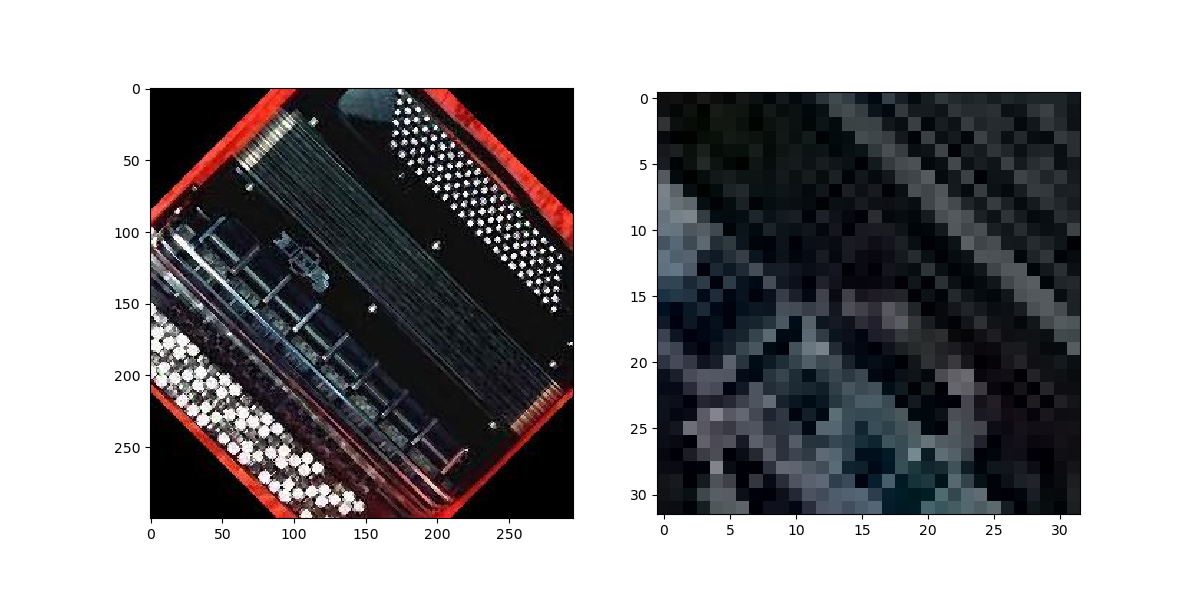
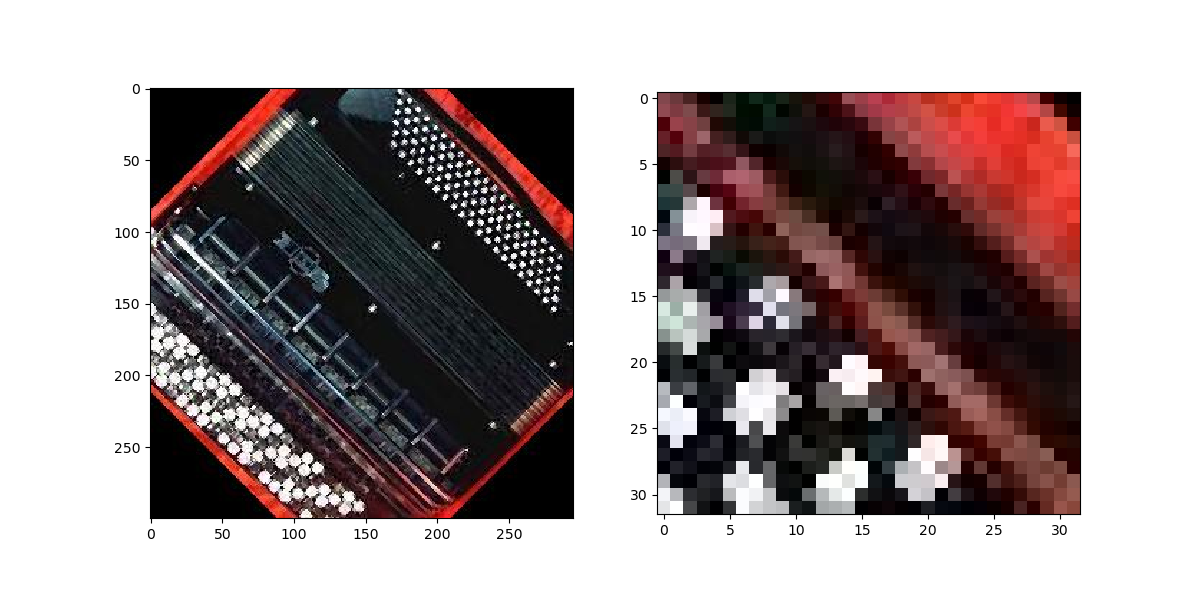
data prepare

Changed region(s): [[0.5242, 0.15, 0.925, 0.87]]

diff --git a/DataPreparation/scripts/transforms.py b/DataPreparation/scripts/transforms.py
@@ -30,6 +30,77 @@ plt.imshow(img)
 plt.subplot(1, 2, 2)
 plt.imshow(rst)
 plt.savefig('../assets/center_crop.png')
-plt.show()
 
+
+# ---随机长宽比裁减---
+tf = transforms.Compose([transforms.RandomResizedCrop(32, scale=(0.08, 1.0), ratio=(0.75, 1.333), interpolation=2)])
+
+
+# ---上下左右中心裁减---
+tf = transforms.Compose([transforms.FiveCrop(32)])
+
+
+# ---上下左右中心裁减翻转---
+tf = transforms.Compose([transforms.TenCrop(32)])
+
+
+# ---概率水平翻转---
+tf = transforms.Compose([transforms.RandomHorizontalFlip(0.9)])
+rst = tf(img)
+
+plt.figure(figsize=(12, 6))
+plt.subplot(1, 2, 1)
+plt.imshow(img)
+plt.subplot(1, 2, 2)
+plt.imshow(rst)
+plt.savefig('../assets/random_h_flip.png')
+
+# ---概率垂直翻转---
+tf = transforms.Compose([transforms.RandomVerticalFlip(0.9)])
+
+# ---随机旋转---
+tf = transforms.Compose([transforms.RandomRotation((30, 90), resample=False, expand=False, center=None)])
+rst = tf(img)
+
+plt.figure(figsize=(12, 6))
+plt.subplot(1, 2, 1)
+plt.imshow(img)
+plt.subplot(1, 2, 2)
+plt.imshow(rst)
+plt.savefig('../assets/random_rotation.png')
+
+# ---图像尺寸调整---
+tf = transforms.Compose([transforms.Resize(32, interpolation=2)])
+
+# ---图像标准化---
+normMean = [0.4948052, 0.48568845, 0.44682974]
+normStd = [0.24580306, 0.24236229, 0.2603115]
+tf = transforms.Compose([transforms.Normalize(normMean, normStd)])
+
+# ---转为Tensor---
+tf = transforms.Compose([transforms.ToTensor()])
+
+# ---填充---
+tf = transforms.Compose([transforms.Pad(None, fill=0, padding_mode='constant')])
+
+# ---对比度等---
+tf = transforms.Compose([transforms.ColorJitter(brightness=0, contrast=0, saturation=0, hue=0)])
+
+# ---灰度化---
+tf = transforms.Compose([transforms.Grayscale(num_output_channels=1)])
+
+# ---线性变换---
+tf = transforms.Compose([transforms.LinearTransformation(transformation_matrix=None)])
+
+# ---仿射变换---
+tf = transforms.Compose([transforms.RandomAffine(30, translate=None, scale=None, shear=None, resample=False, fillcolor=0)])
+
+# ---概率灰度化---
+tf = transforms.Compose([transforms.RandomGrayscale(0.5)])
+
+# ---PIL---
+tf = transforms.Compose([transforms.ToPILImage(mode=None)])
+
+# ---lambda---
+tf = transforms.Compose([transforms.Lambda(func)])
 

diff --git a/DataPreparation/README.md b/DataPreparation/README.md
@@ -63,6 +63,7 @@ if __name__ == '__main__':
 3. 训练完成，释放内存，进行下一批数据读取。
 
 实验效果如下，可以看到，按批次取出了数据和标签。
+
 ![](./assets/loader.png)
 
 其代码如下。
@@ -133,8 +134,90 @@ for epoch in range(epochs):
   - **size**参数设置裁减后的图片大小，为整型或者元组，若为元组要符合`(height, width)`格式，若int型数则自动按照`(size, size)`进行长宽设定。
   - 下图左侧为原图，右侧为随机裁减的结果。![](./assets/center_crop.png)
 - 随机长宽比裁减
-  - 
+  - `transforms.RandomResizedCrop(size, scale=(0.08, 1.0), ratio=(0.75, 1.333), interpolation=2)`
+  - 随机大小且随机长宽比裁减图片，最后resize到指定的大小。
+  - **size**设置输出图片的大小，为整型或者元组，可以是`(h, w)`或者`(size, size)`格式。
+  - **scale**设置随机裁减的大小区间，为浮点型，`(a, b)`表示裁减后会在a倍到b倍大小之间。
+  - **ratio**设置随机长宽比，浮点型。
+  - **interpolation**设置插值方法，默认为双线性插值。
+- 上下左右中心裁减
+  - `transforms.FiveCrop(size)`
+  - 对图片进行上下左右中心进行裁减，得到5个结果图片，返回一个4D的Tensor。
+  - **size**参数同上。
+- 上下左右中心裁减并翻转
+  - `ransforms.TenCrop(size, vertical_flip=False)`
+  - 对图片进行上下左右中心裁减后并翻转，共得到10张图片，返回一个4D的Tensor。
+  - **size**参数同上。
+  - **vertical_flip**设置是否进行垂直翻转，布尔型，默认水平翻转。
 
+### 转动（Flip and Rotation）
+- 概率水平翻转
+  - `transforms.RandomHorizontalFlip(p)`
+  - 以概率p对图片进行水平翻转。
+  - **p**设置进行翻转的概率，浮点型，默认0.5。
+  - 下图左侧为原图，右侧为随机裁减的结果。![](./assets/random_h_flip.png)
+- 概率垂直翻转
+  - `transforms.RandomVerticalFlip(size)`
+  - 以概率p对图片进行垂直翻转。
+  - 参数同上。
+- 随机旋转
+  - `transforms.RandomRotation(degrees, resample=None, expand=False, center=None, fill=None)`
+  - 按照degree度数进行随机旋转。
+  - **degrees**设置旋转最大角度，数值型或者元组，若单数值则默认`(-degrees, degree)`之间随机旋转，若两个数字的元组则表示(a, b)区间进行随机旋转。
+  - **resample**设置重采样方法，有下面三个选项`PIL.Image.NEAREST, PIL.Image.BILINEAR, PIL.Image.BICUBIC`。
+  - **expand**设置是否扩展图片以容纳旋转结果，布尔型，默认False。
+  - **center**设置是否中心旋转，默认左上角旋转。
+  - **fill**设置填充方法，同裁减部分的参数。
+  - 下图右侧为随机旋转的结果图。![](./assets/random_rotation.png)
+
+### 图像变换
+- 图片大小调整
+  - `transforms.Resize(size, interpolation=2)`
+  - 按照指定size调整图片大小。
+  - **size**设置图片大小，`(h, w)`格式，若为int数，则按照`size*height/width, size`进行调整。
+  - **interpolation**设置插值方法，默认`PIL.Image.BILINEAR`。
+- 图像标准化
+  - `transforms.Normalize(mean, std)`
+  - 对图像按通道进行标准化，即减均值后除以标准差，输入图片`(h, w, c)`格式。
+- 转为Tensor
+  - `transforms.ToTensor()`
+  - 将PIL Image或者Numpy.ndarray转为PyTorch的Tensor类型，并归一化至`[0-1]`，注意是直接除以255。
+- 填充
+  - `transforms.Pad(padding, fill=0, padding_mode='constant')`
+  - 对图像进行填充。
+  - 参数同上面的`RandomCrop`。
+- 亮度、对比度和饱和度
+  - `transforms.ColorJitter(brightness=0, contrast=0, saturation=0, hue=0)`
+  - 修改亮度、对比度和饱和度。
+- 灰度化
+  - `transforms.Grayscale(num_output_channels=1)`
+  - 图片转为灰度图。
+  - **num_output_channels**，输出的灰度图通道数，默认为1，为3时RGB三通道值相同。
+- 线性变换
+  - `transforms.LinearTransformation(transformation_matrix)`
+  - 对矩阵做线性变换，可用于白化处理。
+- 仿射变换
+  - `transforms.RandomAffine(degrees, translate=None, scale=None, shear=None, resample=False, fillcolor=0)`
+- 概率灰度化
+  - `transforms.RandomGrayscale(p)`
+  - 以概率p进行灰度化。
+- 转换为PIL Image
+  - `transforms.ToPILImage(mode)`
+  - 将PyTorch的Tensor或者Numpy的ndarray转为PIL的Image。
+  - **mode**参数设置准换后的图片格式，mode为None时单通道，mode为3时转为RGB，为4时转为RGBA。
+- Lambda
+  - `transforms.Lambda(func)`
+  - 将自定义的图像变换函数应用到其中。
+  - func是一个lambda函数。
+
+### transform操作
+PyTorch不只是能对图像进行变换，还能对这些变换进行随机选择和组合。
+- `transforms.RandomChoice(transforms)`
+  - 随机选择某一个变换进行作用。
+- `transforms.RandomApply(transforms, p=0.5)`
+  - 以概率p进行变幻的选择。
+- `transforms.RandomOrder(transforms)`
+  - 随机打乱变换的顺序。
 
 
 ## 补充说明
